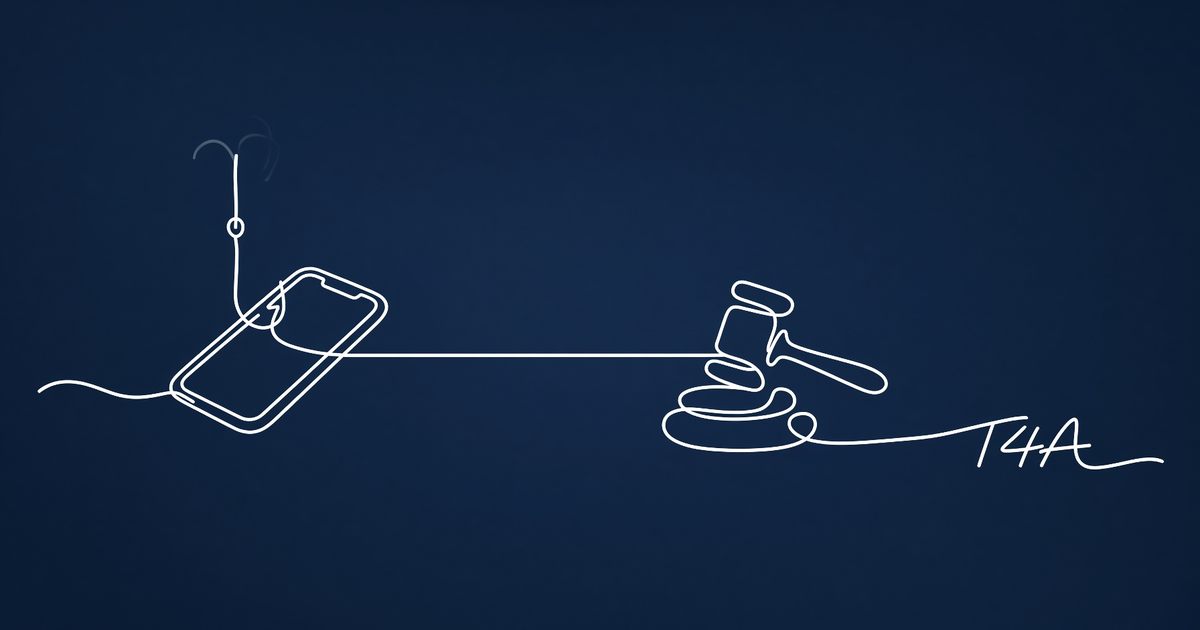
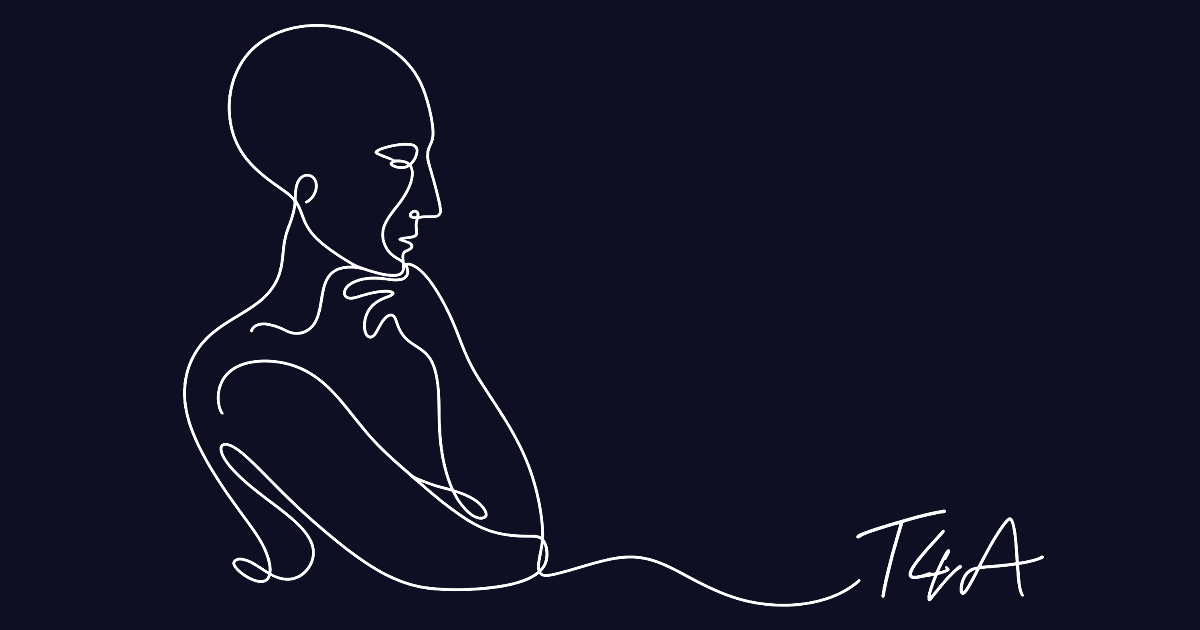
Image prompt: print the canonical T4A line-art template; new art for issue 2018 (#102)
`publish-pipeline.mjs image-prompt <id>` now prints the CLAUDE.md single continuous line template verbatim (header, subject placeholder, save path), and the Phase 7b section of the publish playbook describes it instead of the retired amber/steel-blue style.

Issue 2018's OG background is replaced with the contemplative single-line figure from Grok Imagine post 5e7c070d, cover-cropped to 1200x630 and redrawn on exact #0f0f23. The pipeline state records the new and previous sources.

Claude-Session: https://claude.ai/code/session_014euLCE9DNBzMhKhBMwyxN3

diff --git a/engine/templates/publish-playbook.md b/engine/templates/publish-playbook.md
@@ -216,15 +216,19 @@ node scripts/publish-pipeline.mjs set-phase {slug} 7a_sherlock '{"related": ["01
 node scripts/publish-pipeline.mjs image-prompt <ID>
 ```
 
-This prints the per-issue prompt composed from the T4A master style
-(`#0f0f23` navy background, single symbolic object, amber/steel-blue/earth
-palette, 1.91:1 aspect).
+This prints the canonical T4A image template from CLAUDE.md ("PHASE 7:
+SHERLOCK + IMAGE", "Image Prompt") with the issue's header and save path
+filled in: a single continuous white line (`#FFFFFF`) on `#0f0f23` navy,
+ending in a cursive "T4A" signature bottom right, negative space on the
+right, 1.91:1. The wording is fixed. Claude fills only the
+`[INSERT YOUR SUBJECT DESCRIPTION HERE]` placeholder, following the subject
+rules listed under the template in CLAUDE.md.
 
 Claude presents the prompt to the user. User renders it in their image tool
 and drops the result at:
 
 ```
-public/og/backgrounds/issue-{ID}-bg.png    (or .jpg)
+public/og/backgrounds/issue-{ID}-bg.png
 ```
 
 When the file lands, mark:
